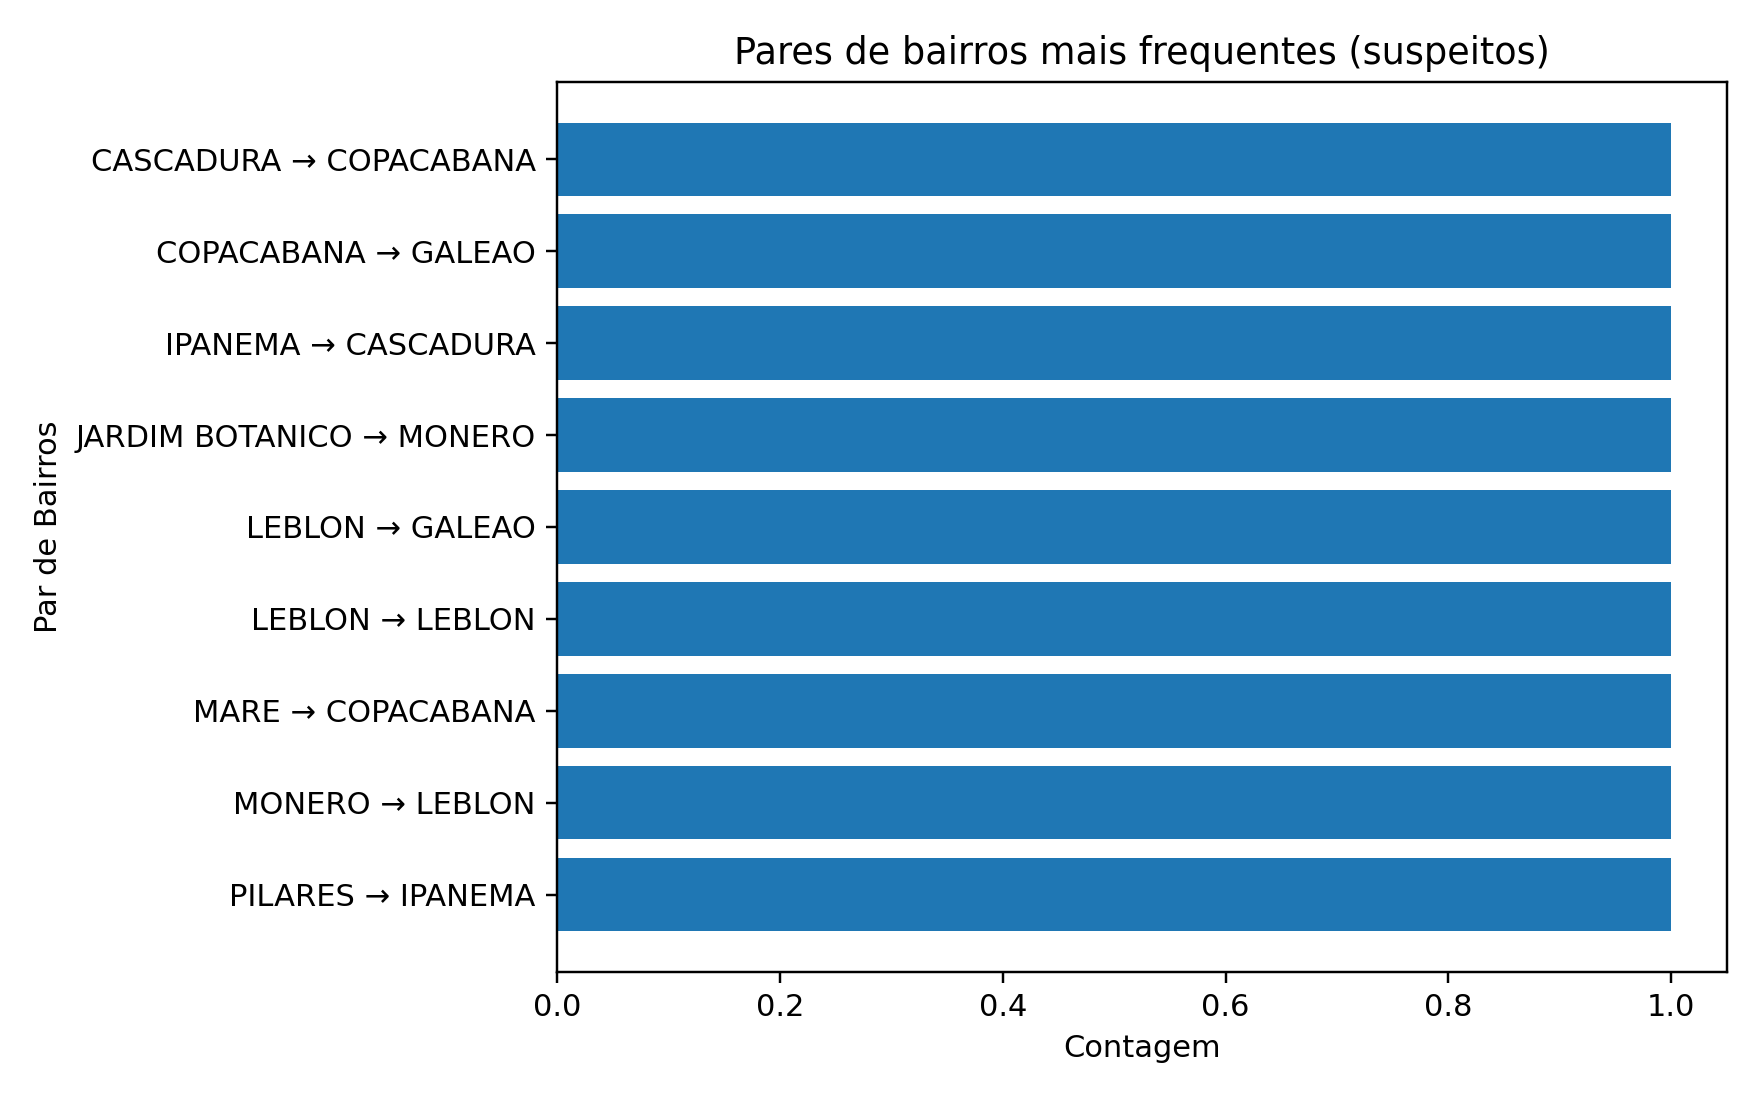
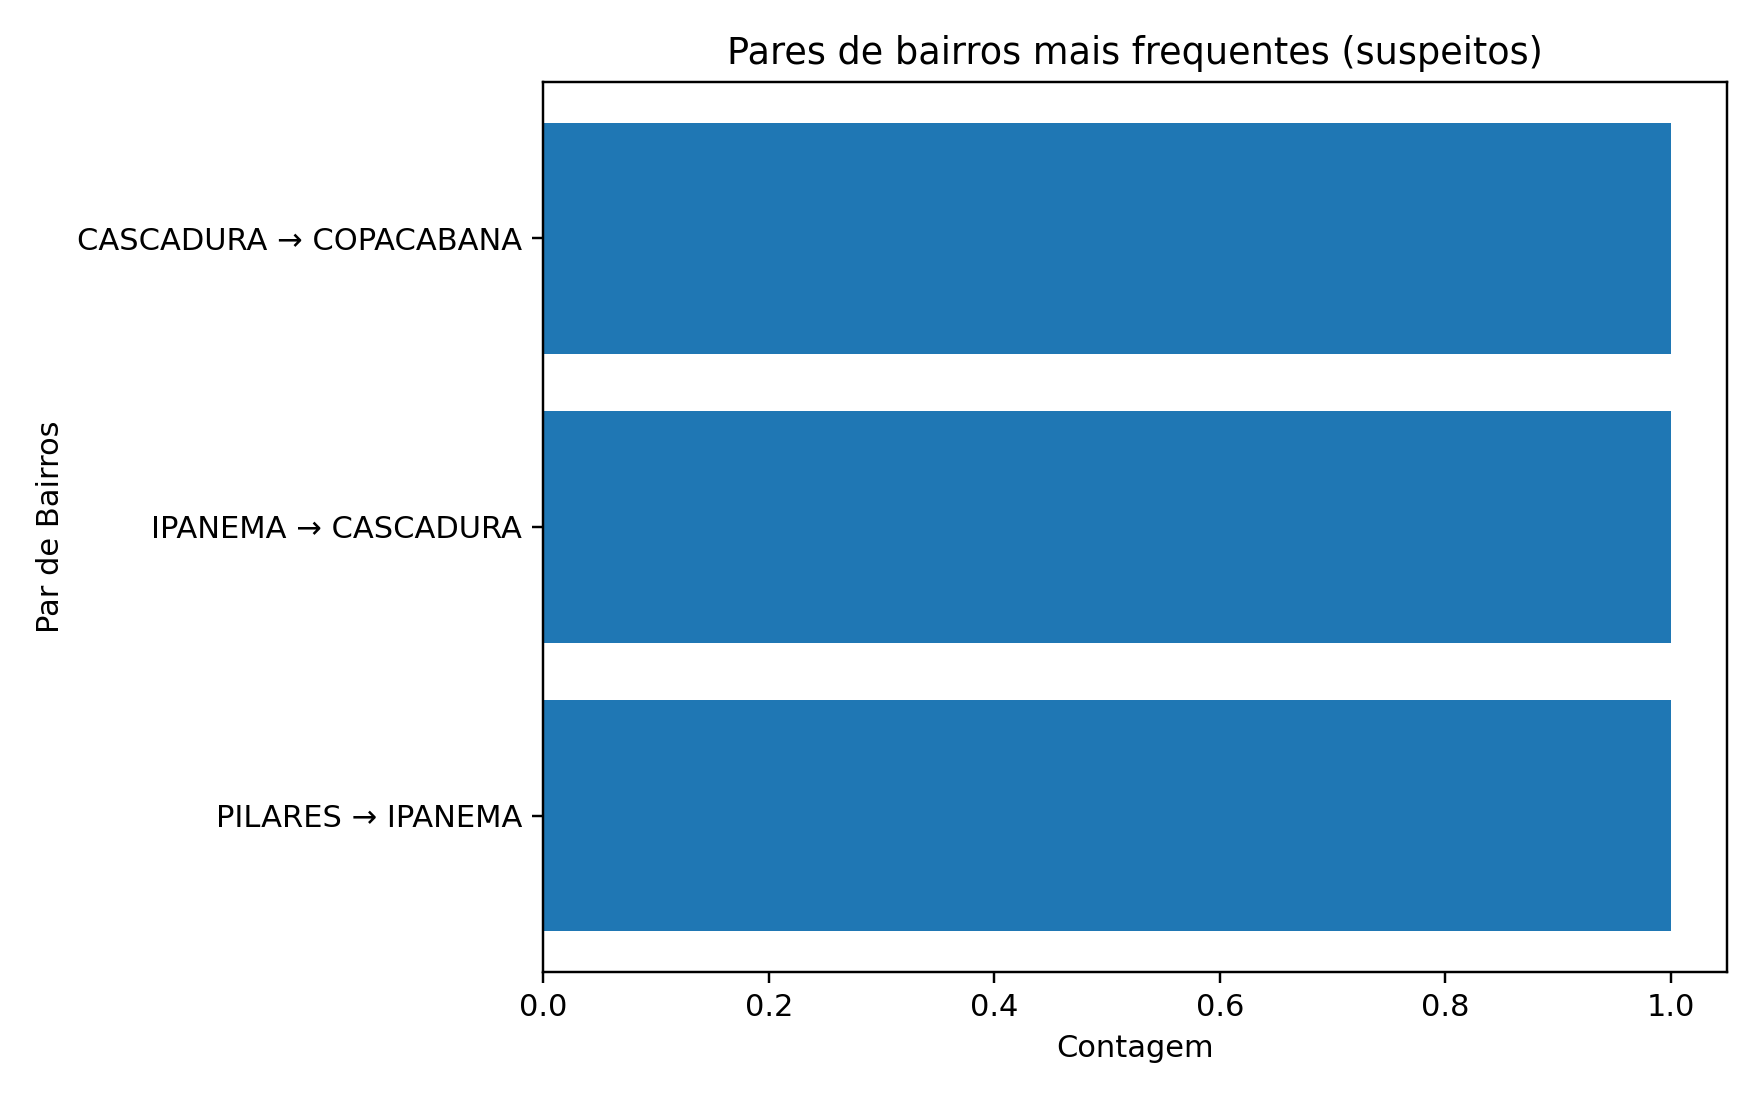
Refactor report structure and parameters sections
Reworked the structure section in the report generator to use HTML rendering and simplified content, commenting out unused intro and KPI methods. The parameters table is now replaced with a brief description, and related table rendering code is commented out in both generator and PDF base modules. Updated image asset for bairro pairs top.

diff --git a/app/modules/cloning_report/report/clonagem_report_generator/generator.py b/app/modules/cloning_report/report/clonagem_report_generator/generator.py
@@ -398,94 +398,97 @@ class ClonagemReportGenerator:
     def _add_structure_section(self, pdf):
         # Verificar se há espaço suficiente para o título + conteúdo
         # Se não houver, forçar nova página
-        if pdf.get_y() > 250:  # Se estiver muito próximo do final da página
-            pdf.add_page()
+        # if pdf.get_y() > 250:  # Se estiver muito próximo do final da página
+        pdf.add_page()
 
         self._add_structure_title(pdf)
-        self._add_structure_intro(pdf)
+        # self._add_structure_intro(pdf)
         self._add_structure_content(pdf)
 
+    def _add_structure_title(self, pdf):
+        pdf.set_font("Helvetica", "B", FontSize.SECTION_TITLE)
+        pdf.cell(0, 8, "3. Estrutura do Relatório", new_x=XPos.LMARGIN, new_y=YPos.NEXT)
+
     def _add_structure_content(self, pdf):
-        pdf.chapter_body(
-            "Este relatório busca apresentar análises de suspeita de clonagem de placas de \n"
-            "veículos, a partir dos registros de passagem capturados pelos radares da cidade. \n"
-            "Especificamente, pretende-se separar as detecções suspeitas em diferentes trilhas \n"
-            "atribuíveis a dois veículos distintos (Veículo 1 e Veículo 2), com foco em evidenciar e \n"
-            "caracterizar as possíveis dinâmicas de circulação de cada um deles paralelamente na \n"
-            "cidade. O processo é dividido em quatro etapas: \n\n"
-            "        <b>1. Recebimento da demanda</b>\n"
-            "        Autoridade solicitante fornece a placa de veículo e período de busca para identificação de possíveis suspeitas de clonagem\n"
-            "        <b>2. Identificação de suspeita de clonagem</b>\n"
-            "        Mapeamento de pares de detecções (duas passagens consecutivas) que apontem suspeita de clone no período\n"
-            "        <b>3. Geração de Mapa Geral da Análise</b>\n"
-            "        Consolidação de todos os pares de detecções classificados como suspeitos ao longo do período analisado. \n\n"
-            "        <b>4. Geração de Mapas Diários: separação em trilhas</b>\n"
-            "        Identificação de pontos de detecções atribuíveis a possíveis veículos distintos (Veículo 1 e Veículo 2) diariamente."
+        pdf.ln(0.5)
+        # pdf.ln(1)
+        pdf.set_font("Helvetica", "", FontSize.BODY_TEXT)
+        pdf.chapter_html(
+            f"{'&nbsp;' * 4}Este relatório busca apresentar análises de suspeita de clonagem de placas de"
+            "veículos, a partir dos registros de passagem capturados pelos radares da cidade."
+            "Especificamente, pretende-se separar as detecções suspeitas em diferentes trilhas"
+            "atribuíveis a dois veículos distintos (Veículo 1 e Veículo 2), com foco em evidenciar e"
+            "caracterizar as possíveis dinâmicas de circulação de cada um deles paralelamente na"
+            "cidade. O processo é dividido em quatro etapas: <br><br>"
+            f"{'&nbsp;' * 8}<b>1. Recebimento da demanda</b><br>"
+            f"{'&nbsp;' * 12}Autoridade solicitante fornece a placa de veículo e período de busca para identificação de possíveis suspeitas de clonagem<br>"
+            f"{'&nbsp;' * 8}<b>2. Identificação de suspeita de clonagem</b><br>"
+            f"{'&nbsp;' * 12}Mapeamento de pares de detecções (duas passagens consecutivas) que apontem suspeita de clone no período<br>"
+            f"{'&nbsp;' * 8}<b>3. Geração de Mapa Geral da Análise</b><br>"
+            f"{'&nbsp;' * 12}Consolidação de todos os pares de detecções classificados como suspeitos ao longo do período analisado. <br>"
+            f"{'&nbsp;' * 8}<b>4. Geração de Mapas Diários: separação em trilhas</b><br>"
+            f"{'&nbsp;' * 12}Identificação de pontos de detecções atribuíveis a possíveis veículos distintos (Veículo 1 e Veículo 2) diariamente."
             ""
+            "",
+            font_family="Helvetica",
+            font_size_pt=int(FontSize.BODY_TEXT),
         )
         # self._add_analysis_parameters_section(pdf)
         # self._add_summary_section(pdf)
         # self._add_reading_guide_section(pdf)
         # self._add_general_analysis_section(pdf)
         # self._add_daily_analysis_section(pdf)
-        pass
 
-    def _add_structure_title(self, pdf):
-        pdf.set_font("Helvetica", "B", FontSize.SECTION_TITLE)
-        pdf.cell(0, 8, "3. Estrutura do Relatório", new_x=XPos.LMARGIN, new_y=YPos.NEXT)
-        pdf.ln(0.5)
-        pdf.set_font("Helvetica", "", FontSize.BODY_TEXT_LARGE)
+    # def _add_structure_intro(self, pdf):
+    #     pdf.chapter_body("    O relatório está organizado da seguinte forma:")
+    #     pdf.ln(0.5)
 
-    def _add_structure_intro(self, pdf):
-        pdf.chapter_body("    O relatório está organizado da seguinte forma:")
-        pdf.ln(0.5)
+    # def _add_analysis_parameters_section(self, pdf):
+    #     pdf.chapter_body("3.1 Parâmetros da Análise")
+    #     pdf.chapter_body(
+    #         "    Tabela com as informações de referência da análise, incluindo:\n"
+    #         "     - Placa consultada\n"
+    #         "     - Data de início e data de fim do período analisado"
+    #     )
+    #     pdf.ln(1)
 
-    def _add_analysis_parameters_section(self, pdf):
-        pdf.chapter_body("3.1 Parâmetros da Análise")
-        pdf.chapter_body(
-            "    Tabela com as informações de referência da análise, incluindo:\n"
-            "     - Placa consultada\n"
-            "     - Data de início e data de fim do período analisado"
-        )
-        pdf.ln(1)
+    # def _add_summary_section(self, pdf):
+    #     pdf.chapter_body("3.2 Quadro Resumo Inicial")
+    #     pdf.chapter_body(
+    #         "    Panorama geral da análise, reunindo os principais indicadores:\n"
+    #         "     - Número total de passagens analisadas.\n"
+    #         "     - Quantidade de pares classificados como suspeitos.\n"
+    #         "     - Dia com mais registros de suspeita de clonagem"
+    #     )
+    #     pdf.ln(1)
 
-    def _add_summary_section(self, pdf):
-        pdf.chapter_body("3.2 Quadro Resumo Inicial")
-        pdf.chapter_body(
-            "    Panorama geral da análise, reunindo os principais indicadores:\n"
-            "     - Número total de passagens analisadas.\n"
-            "     - Quantidade de pares classificados como suspeitos.\n"
-            "     - Dia com mais registros de suspeita de clonagem"
-        )
-        pdf.ln(1)
+    # def _add_reading_guide_section(self, pdf):
+    #     pdf.chapter_body("3.3 Introdução: como ler este relatório")
+    #     pdf.chapter_body(
+    #         "    Seção que tem como finalidade orientar a interpretação das informações "
+    #         "apresentadas."
+    #     )
+    #     pdf.ln(1)
 
-    def _add_reading_guide_section(self, pdf):
-        pdf.chapter_body("3.3 Introdução: como ler este relatório")
-        pdf.chapter_body(
-            "    Seção que tem como finalidade orientar a interpretação das informações "
-            "apresentadas."
-        )
-        pdf.ln(1)
+    # def _add_general_analysis_section(self, pdf):
+    #     pdf.chapter_body("3.4 Mapa e Tabela Geral da Análise")
+    #     pdf.chapter_body(
+    #         "     Representação consolidada de todas as ocorrências suspeitas identificadas ao longo "
+    #         "do período. Permite observar a distribuição espacial dos registros e identificar "
+    #         "concentrações de ocorrências em determinadas regiões da cidade."
+    #     )
+    #     pdf.ln(1)
 
-    def _add_general_analysis_section(self, pdf):
-        pdf.chapter_body("3.4 Mapa e Tabela Geral da Análise")
-        pdf.chapter_body(
-            "     Representação consolidada de todas as ocorrências suspeitas identificadas ao longo "
-            "do período. Permite observar a distribuição espacial dos registros e identificar "
-            "concentrações de ocorrências em determinadas regiões da cidade."
-        )
-        pdf.ln(1)
-
-    def _add_daily_analysis_section(self, pdf):
-        pdf.chapter_body("3.5 Mapas e Tabelas Diários")
-        pdf.chapter_body(
-            "    Detalham, dia a dia, os pares de detecção suspeitos. Quando há condições mínimas "
-            "para reconstrução de duas trilhas distintas (Veículo 1 e Veículo 2), os pontos são "
-            "representados em cores diferentes (azul escuro e azul claro), evidenciando os trajetos "
-            "alternativos. Quando a separação não é possível, os registros aparecem em cinza, indicando "
-            "ausência de evidências suficientes para segmentar as trilhas."
-        )
-        pdf.ln(2)
+    # def _add_daily_analysis_section(self, pdf):
+    #     pdf.chapter_body("3.5 Mapas e Tabelas Diários")
+    #     pdf.chapter_body(
+    #         "    Detalham, dia a dia, os pares de detecção suspeitos. Quando há condições mínimas "
+    #         "para reconstrução de duas trilhas distintas (Veículo 1 e Veículo 2), os pontos são "
+    #         "representados em cores diferentes (azul escuro e azul claro), evidenciando os trajetos "
+    #         "alternativos. Quando a separação não é possível, os registros aparecem em cinza, indicando "
+    #         "ausência de evidências suficientes para segmentar as trilhas."
+    #     )
+    #     pdf.ln(2)
 
     def _add_limitations_section(self, pdf):
         self._add_limitations_title(pdf)
@@ -531,7 +534,8 @@ class ClonagemReportGenerator:
 
     def _add_summary_page(self, pdf: ReportPDF):
         self._add_parameters_section(pdf)
-        self._add_kpi_section(pdf)
+
+        # self._add_kpi_section(pdf)
 
     def _add_parameters_section(self, pdf: ReportPDF):
         pdf.add_page()
@@ -543,31 +547,35 @@ class ClonagemReportGenerator:
         self._add_parameters_table(pdf)
 
     def _add_parameters_table(self, pdf: ReportPDF):
-        periodo_txt = (
-            f"De {self.periodo_inicio:%d/%m/%Y às %H:%M:%S} "
-            f"até {self.periodo_fim:%d/%m/%Y às %H:%M:%S}"
+        pdf.chapter_body(
+            "Abaixo estão os parâmetros utilizados para a geração do relatório. Eles são definidos pelo solicitante."
         )
-        suspeita_txt = "Sim" if getattr(self, "num_suspeitos", 0) > 0 else "Não"
-        rows = [
-            ("Placa monitorada:", self.placa),
-            ("Marca/Modelo:", self.meta_marca_modelo),
-            ("Cor:", self.meta_cor),
-            ("Ano Modelo:", str(self.meta_ano_modelo)),
-            ("Período analisado:", periodo_txt),
-            ("Total de pontos detectados:", str(self.total_deteccoes)),
-            ("Suspeita de placa clonada:", suspeita_txt),
-        ]
-        pdf.add_params_table(rows)
+        pdf.chapter_html("")
+        # periodo_txt = (
+        #     f"De {self.periodo_inicio:%d/%m/%Y às %H:%M:%S} "
+        #     f"até {self.periodo_fim:%d/%m/%Y às %H:%M:%S}"
+        # )
+        # suspeita_txt = "Sim" if getattr(self, "num_suspeitos", 0) > 0 else "Não"
+        # rows = [
+        #     ("Placa monitorada:", self.placa),
+        #     ("Marca/Modelo:", self.meta_marca_modelo),
+        #     ("Cor:", self.meta_cor),
+        #     ("Ano Modelo:", str(self.meta_ano_modelo)),
+        #     ("Período analisado:", periodo_txt),
+        #     ("Total de pontos detectados:", str(self.total_deteccoes)),
+        #     ("Suspeita de placa clonada:", suspeita_txt),
+        # ]
+        # pdf.add_params_table(rows)
 
-    def _add_kpi_section(self, pdf: ReportPDF):
-        pdf.set_font("Helvetica", "B", FontSize.KPI_SECTION_TITLE)
-        pdf.cell(0, 10, "Quadro Resumo", new_x=XPos.LMARGIN, new_y=YPos.NEXT, align="L")
-        pdf.ln(6)
-        self._add_kpi_boxes(pdf)
+    # def _add_kpi_section(self, pdf: ReportPDF):
+    #     pdf.set_font("Helvetica", "B", FontSize.KPI_SECTION_TITLE)
+    #     pdf.cell(0, 10, "Quadro Resumo", new_x=XPos.LMARGIN, new_y=YPos.NEXT, align="L")
+    #     pdf.ln(6)
+    #     self._add_kpi_boxes(pdf)
 
-    def _add_kpi_boxes(self, pdf: ReportPDF):
-        self._setup_kpi_layout(pdf)
-        self._add_kpi_boxes_content(pdf)
+    # def _add_kpi_boxes(self, pdf: ReportPDF):
+    #     self._setup_kpi_layout(pdf)
+    #     self._add_kpi_boxes_content(pdf)
 
     def _setup_kpi_layout(self, pdf: ReportPDF):
         self._calculate_kpi_dimensions(pdf)

diff --git a/app/modules/cloning_report/report/pdf_base.py b/app/modules/cloning_report/report/pdf_base.py
@@ -78,9 +78,9 @@ class ReportPDF(FPDF):
         """Add figure"""
         self.content_renderer.render_figure(fig_or_path, title, text, width_factor)
 
-    def add_params_table(self, rows: list[tuple[str, str]], *, label_w_ratio=0.38):
-        """Add parameters table"""
-        self.content_renderer.render_params_table(rows, label_w_ratio=label_w_ratio)
+    # def add_params_table(self, rows: list[tuple[str, str]], *, label_w_ratio=0.38):
+    #     """Add parameters table"""
+    #     self.content_renderer.render_params_table(rows, label_w_ratio=label_w_ratio)
 
     # ---------- Table rendering methods (delegate to table_renderer) ----------
     def add_table(self, df: pd.DataFrame, title: str, text: str | None = None):
